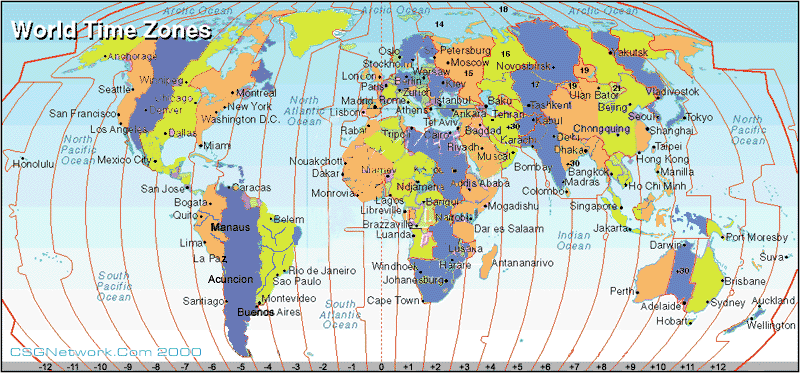
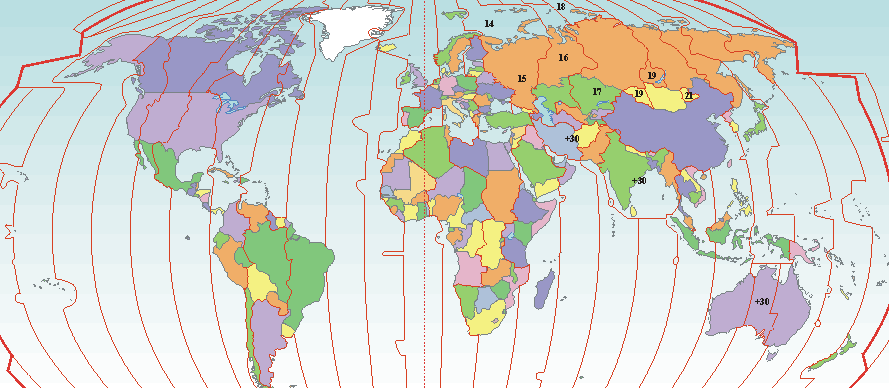
better worldmap image add  geonames info to localeq.conf for reference set to use offline option, testing

diff --git a/src/modules/localeq/localeq.qml b/src/modules/localeq/localeq.qml
@@ -33,7 +33,7 @@ Page
     property var confLang: "American English"
     property var confLocale: "Nederland"
     //Needs to come from .conf/geoip
-    property var geoipCountry: "Netherlands"
+    property var geoipCountry: "" // "Netherlands"
     
     Map  {
         id: image
